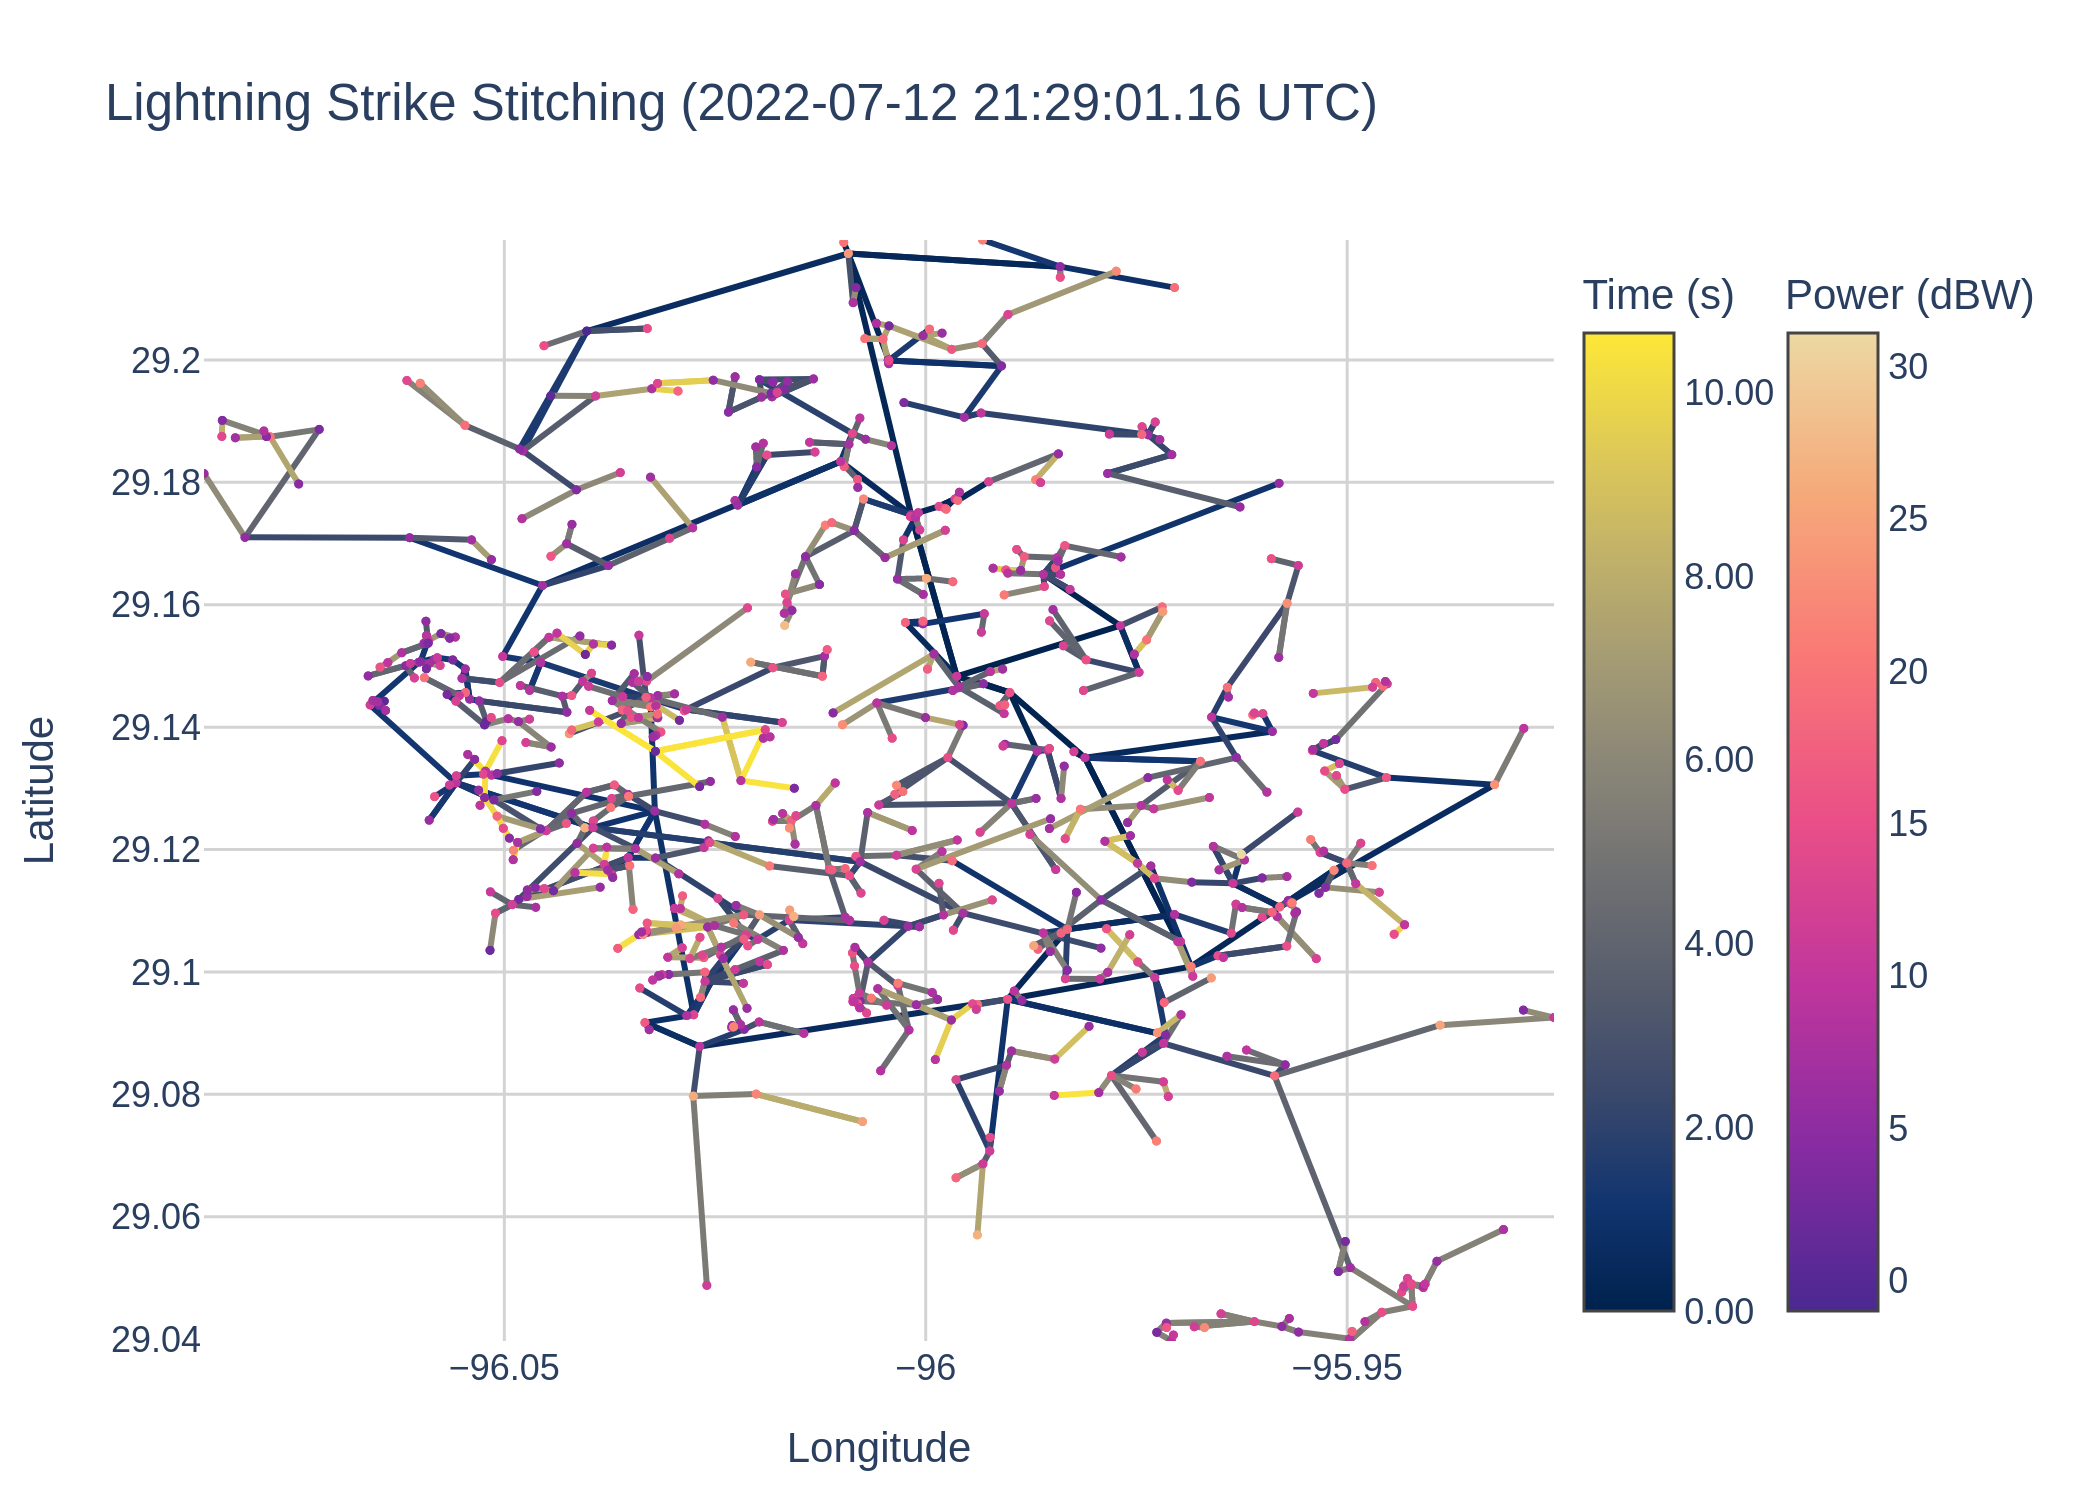
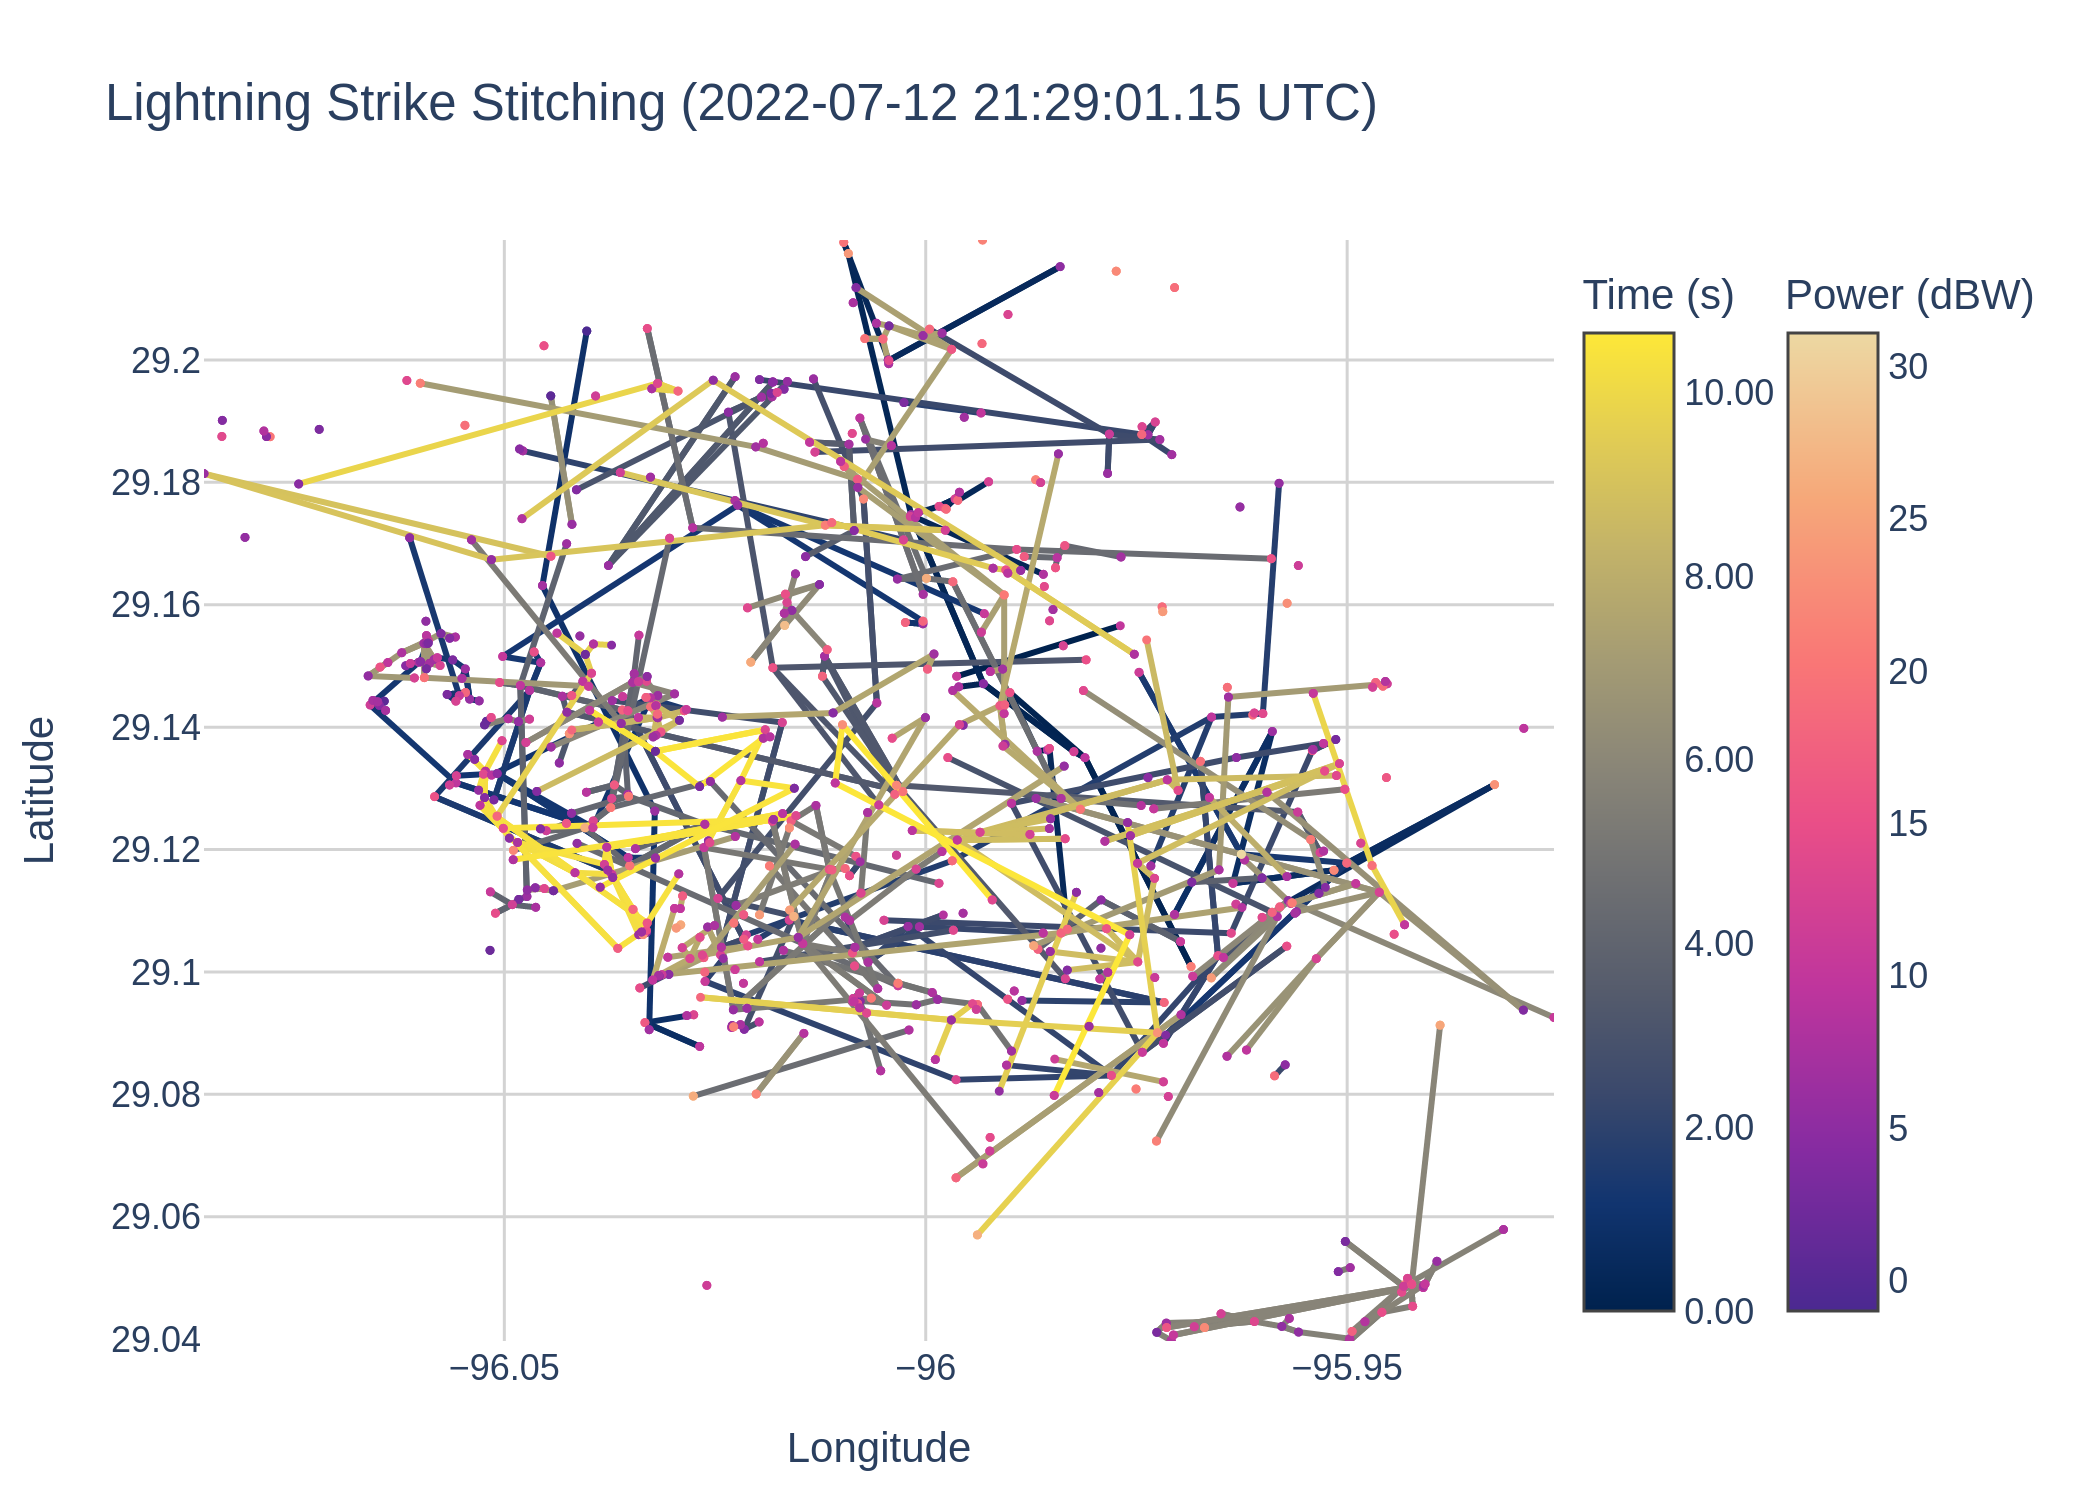
improved system and verified with authors

diff --git a/lightning_bucketer.py b/lightning_bucketer.py
@@ -1,14 +1,3 @@
-try:
-  import cupy as cp
-except ModuleNotFoundError:
-    print(
-        "CuPy is not installed.\n"
-        "Please install the appropriate version for your system.\n"
-        "Refer to the project's README for detailed instructions:\n"
-        "    ./README.md"
-    )
-    exit(1)
-    
 import numpy as np
 import pandas as pd
 import pickle as pkl
@@ -59,20 +48,20 @@ def _bucket_dataframe_lightnings(
       list[list[int]]: A list where each sublist contains the indices of the dataframe representing a lightning strike.
     """
     df.sort_values(by="time_unix", inplace=True)
-    time_unix_gpu = cp.asarray(df["time_unix"].values)
-    delta_t = cp.diff(time_unix_gpu)
+    time_unix_gpu = np.asarray(df["time_unix"].values)
+    delta_t = np.diff(time_unix_gpu)
 
     # Group events by time threshold using cumulative sum.
-    time_groups = cp.concatenate(
+    time_groups = np.concatenate(
         (
-            cp.array([0], dtype=cp.int32),
-            cp.cumsum((delta_t > max_time_threshold).astype(cp.int32)),
+            np.array([0], dtype=np.int32),
+            np.cumsum((delta_t > max_time_threshold).astype(np.int32)),
         )
     )
     print(time_groups)
     print("Processing the buckets.")
 
-    group_ids = cp.asnumpy(time_groups)
+    group_ids = time_groups
     unique_groups = np.unique(group_ids)
     total_unique_groups = len(unique_groups)
 
@@ -121,24 +110,24 @@ def _bucket_dataframe_lightnings(
                 # Avoid square rooting  to improve the calculations
                 distances_squared = ((event_x - sg["x"]) ** 2 + (event_y - sg["y"]) ** 2 + (event_z - sg["z"]) ** 2)
 
-                max_dist_between_pts_squared =  (max_dist_between_pts ** 2)
+                max_dist_between_pts_squared = (max_dist_between_pts ** 2)
                 mask = (distances_squared <= max_dist_between_pts_squared)
-                if cp.any(mask):
+                if np.any(mask):
                     # Check speed constraints only for points within spatial threshold.
-                    dt = cp.abs(event_unix - sg["unix"])
-                    dt = cp.where(dt == 0, 1e-6, dt)
+                    dt = np.abs(event_unix - sg["unix"])
+                    dt = np.where(dt == 0, 1e-6, dt)
                     speeds_squared = distances_squared / (dt ** 2)
                     
                     min_speed_squared = (min_speed ** 2)
                     max_speed_squared = (max_speed ** 2)
-                    if cp.any((speeds_squared >= min_speed_squared) & (speeds_squared <= max_speed_squared)):
+                    if np.any((speeds_squared >= min_speed_squared) & (speeds_squared <= max_speed_squared)):
                         # Ensure adding the event doesn't violate max_lightning_duration.
                         if event_unix - sg["unix"][0] <= max_lightning_duration:
                             sg["indices"].append(j)
-                            sg["x"] = cp.concatenate([sg["x"], cp.array([event_x])])
-                            sg["y"] = cp.concatenate([sg["y"], cp.array([event_y])])
-                            sg["z"] = cp.concatenate([sg["z"], cp.array([event_z])])
-                            sg["unix"] = cp.concatenate([sg["unix"], cp.array([event_unix])])
+                            sg["x"] = np.concatenate([sg["x"], np.array([event_x])])
+                            sg["y"] = np.concatenate([sg["y"], np.array([event_y])])
+                            sg["z"] = np.concatenate([sg["z"], np.array([event_z])])
+                            sg["unix"] = np.concatenate([sg["unix"], np.array([event_unix])])
                             found = True
                             break
 
@@ -147,10 +136,10 @@ def _bucket_dataframe_lightnings(
                 sub_groups.append(
                     {
                         "indices": [j],
-                        "x": cp.array([event_x]),
-                        "y": cp.array([event_y]),
-                        "z": cp.array([event_z]),
-                        "unix": cp.array([event_unix]),
+                        "x": np.array([event_x]),
+                        "y": np.array([event_y]),
+                        "z": np.array([event_z]),
+                        "unix": np.array([event_unix]),
                     }
                 )
 

diff --git a/lightning_stitcher.py b/lightning_stitcher.py
@@ -1,5 +1,6 @@
 import pandas as pd
-import cupy as cp
+#import cupy as cp
+import numpy as np
 from collections import deque
 from typing import Tuple
 from tqdm import tqdm
@@ -35,10 +36,10 @@ def stitch_lightning_strike(strike_indeces: list[int], events: pd.DataFrame, **p
     strike_series_df: pd.Series = events.iloc[strike_indeces]
 
     # Cache the cupy arrays for the data columns.
-    all_x = cp.array(strike_series_df["x"].values)
-    all_y = cp.array(strike_series_df["y"].values)
-    all_z = cp.array(strike_series_df["z"].values)
-    all_times = cp.array(strike_series_df["time_unix"].values)
+    all_x = np.array(strike_series_df["x"].values)
+    all_y = np.array(strike_series_df["y"].values)
+    all_z = np.array(strike_series_df["z"].values)
+    all_times = np.array(strike_series_df["time_unix"].values)
 
     # List to store nodes corresponding to each strike.
     parsed_indices: list[int] = []
@@ -56,7 +57,7 @@ def stitch_lightning_strike(strike_indeces: list[int], events: pd.DataFrame, **p
             y_pre = all_y[:i]
             z_pre = all_z[:i]
             times_pre = all_times[:i]
-            current_coords = cp.array([x1, y1, z1])
+            current_coords = np.array([x1, y1, z1])
 
             # Compute squared Euclidean distances.
             # We don't sqrt for optimization purposes.
@@ -67,7 +68,7 @@ def stitch_lightning_strike(strike_indeces: list[int], events: pd.DataFrame, **p
 
             # Compute time differences (seconds).
             dt = current_time - times_pre
-            dt = cp.where(dt == 0, 1e-6, dt)  # Avoid divide-by-zero
+            dt = np.where(dt == 0, 1e-6, dt)  # Avoid divide-by-zero
 
             dt_squared = (dt ** 2)
 
@@ -84,15 +85,15 @@ def stitch_lightning_strike(strike_indeces: list[int], events: pd.DataFrame, **p
             mask = (distances_squared <= max_dist_squared)
             mask &= (speeds_squared <= max_speed_squared) 
             mask &= (speeds_squared >= min_speed_squared)
-            #mask &= (dt_squared <= max_time_threshold_squared) # Kinda uncertain if this should be added but ok
+            mask &= (dt_squared <= max_time_threshold_squared)
 
-            valid_indices = cp.where(mask)[0]
+            valid_indices = np.where(mask)[0]
 
             if valid_indices.size > 0:
                 # Select the candidate with the minimum distance among those valid.
                 valid_distances_squared = distances_squared[valid_indices]
-                min_valid_idx = int(cp.argmin(valid_distances_squared).get())
-                candidate_idx = int(valid_indices[min_valid_idx].get())
+                min_valid_idx = int(np.argmin(valid_distances_squared))
+                candidate_idx = int(valid_indices[min_valid_idx])
                 parent_indice = parsed_indices[candidate_idx]
 
                 correlations.append((parent_indice, current_indice))
